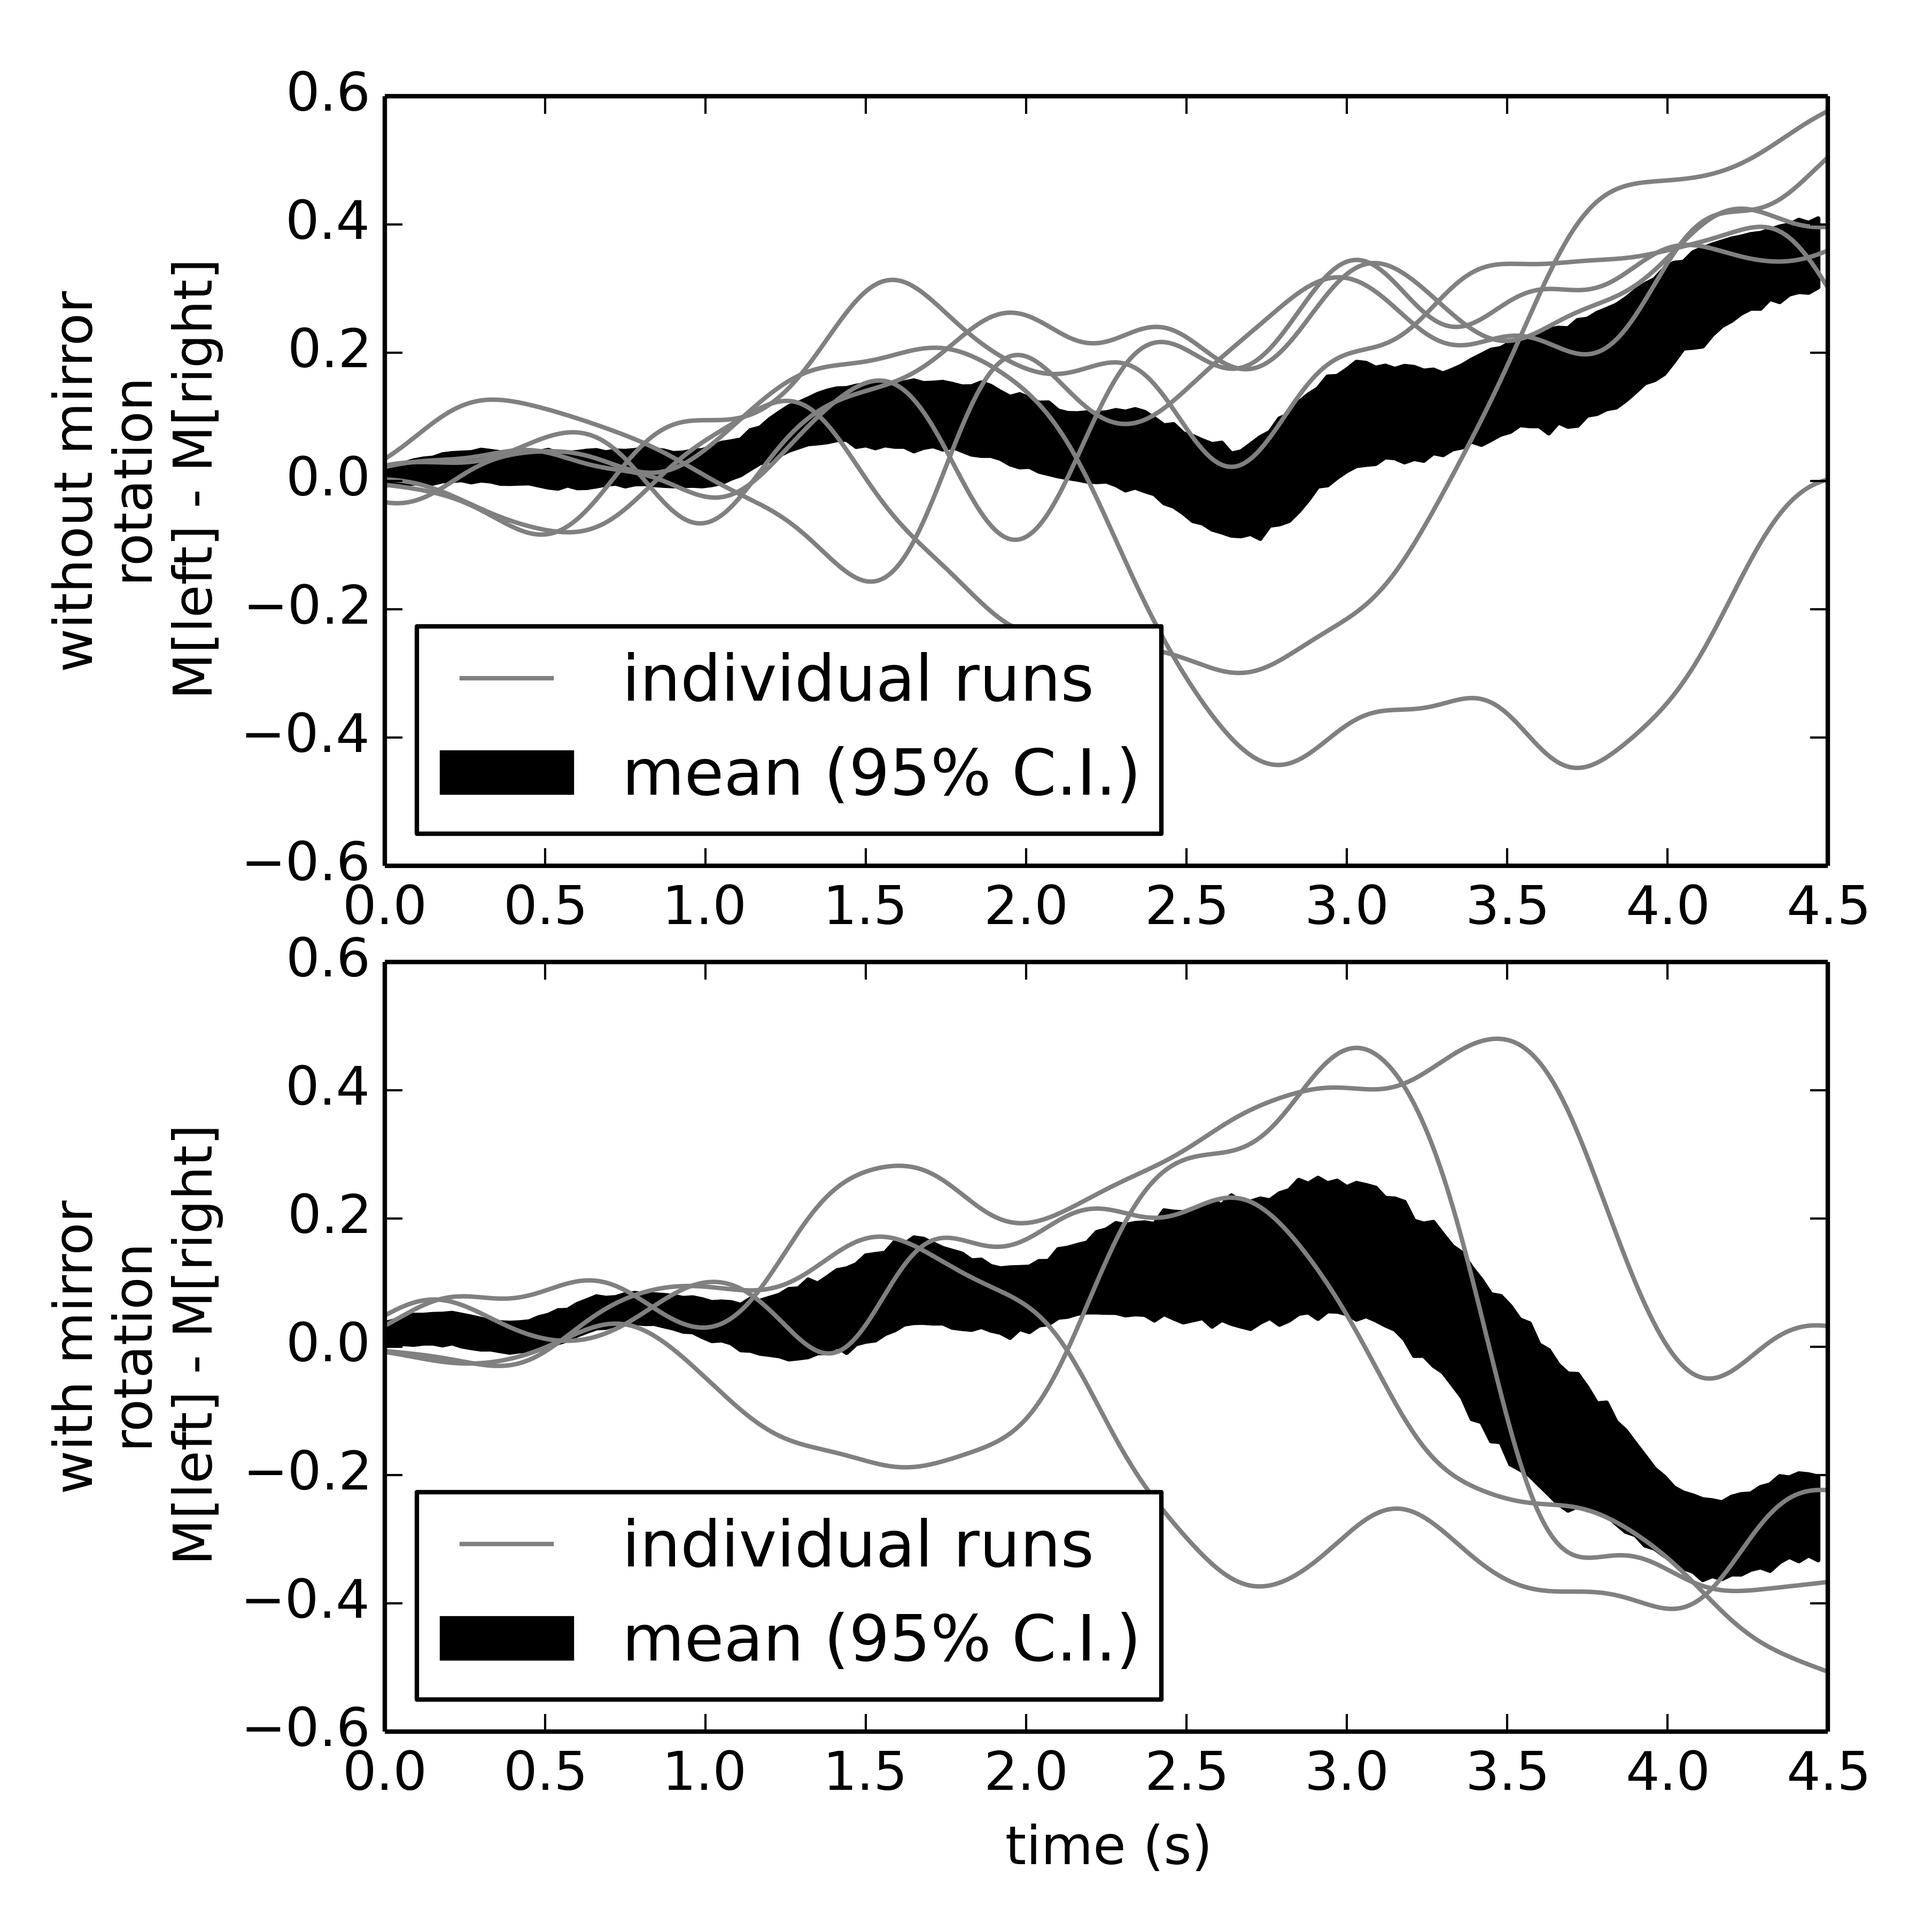
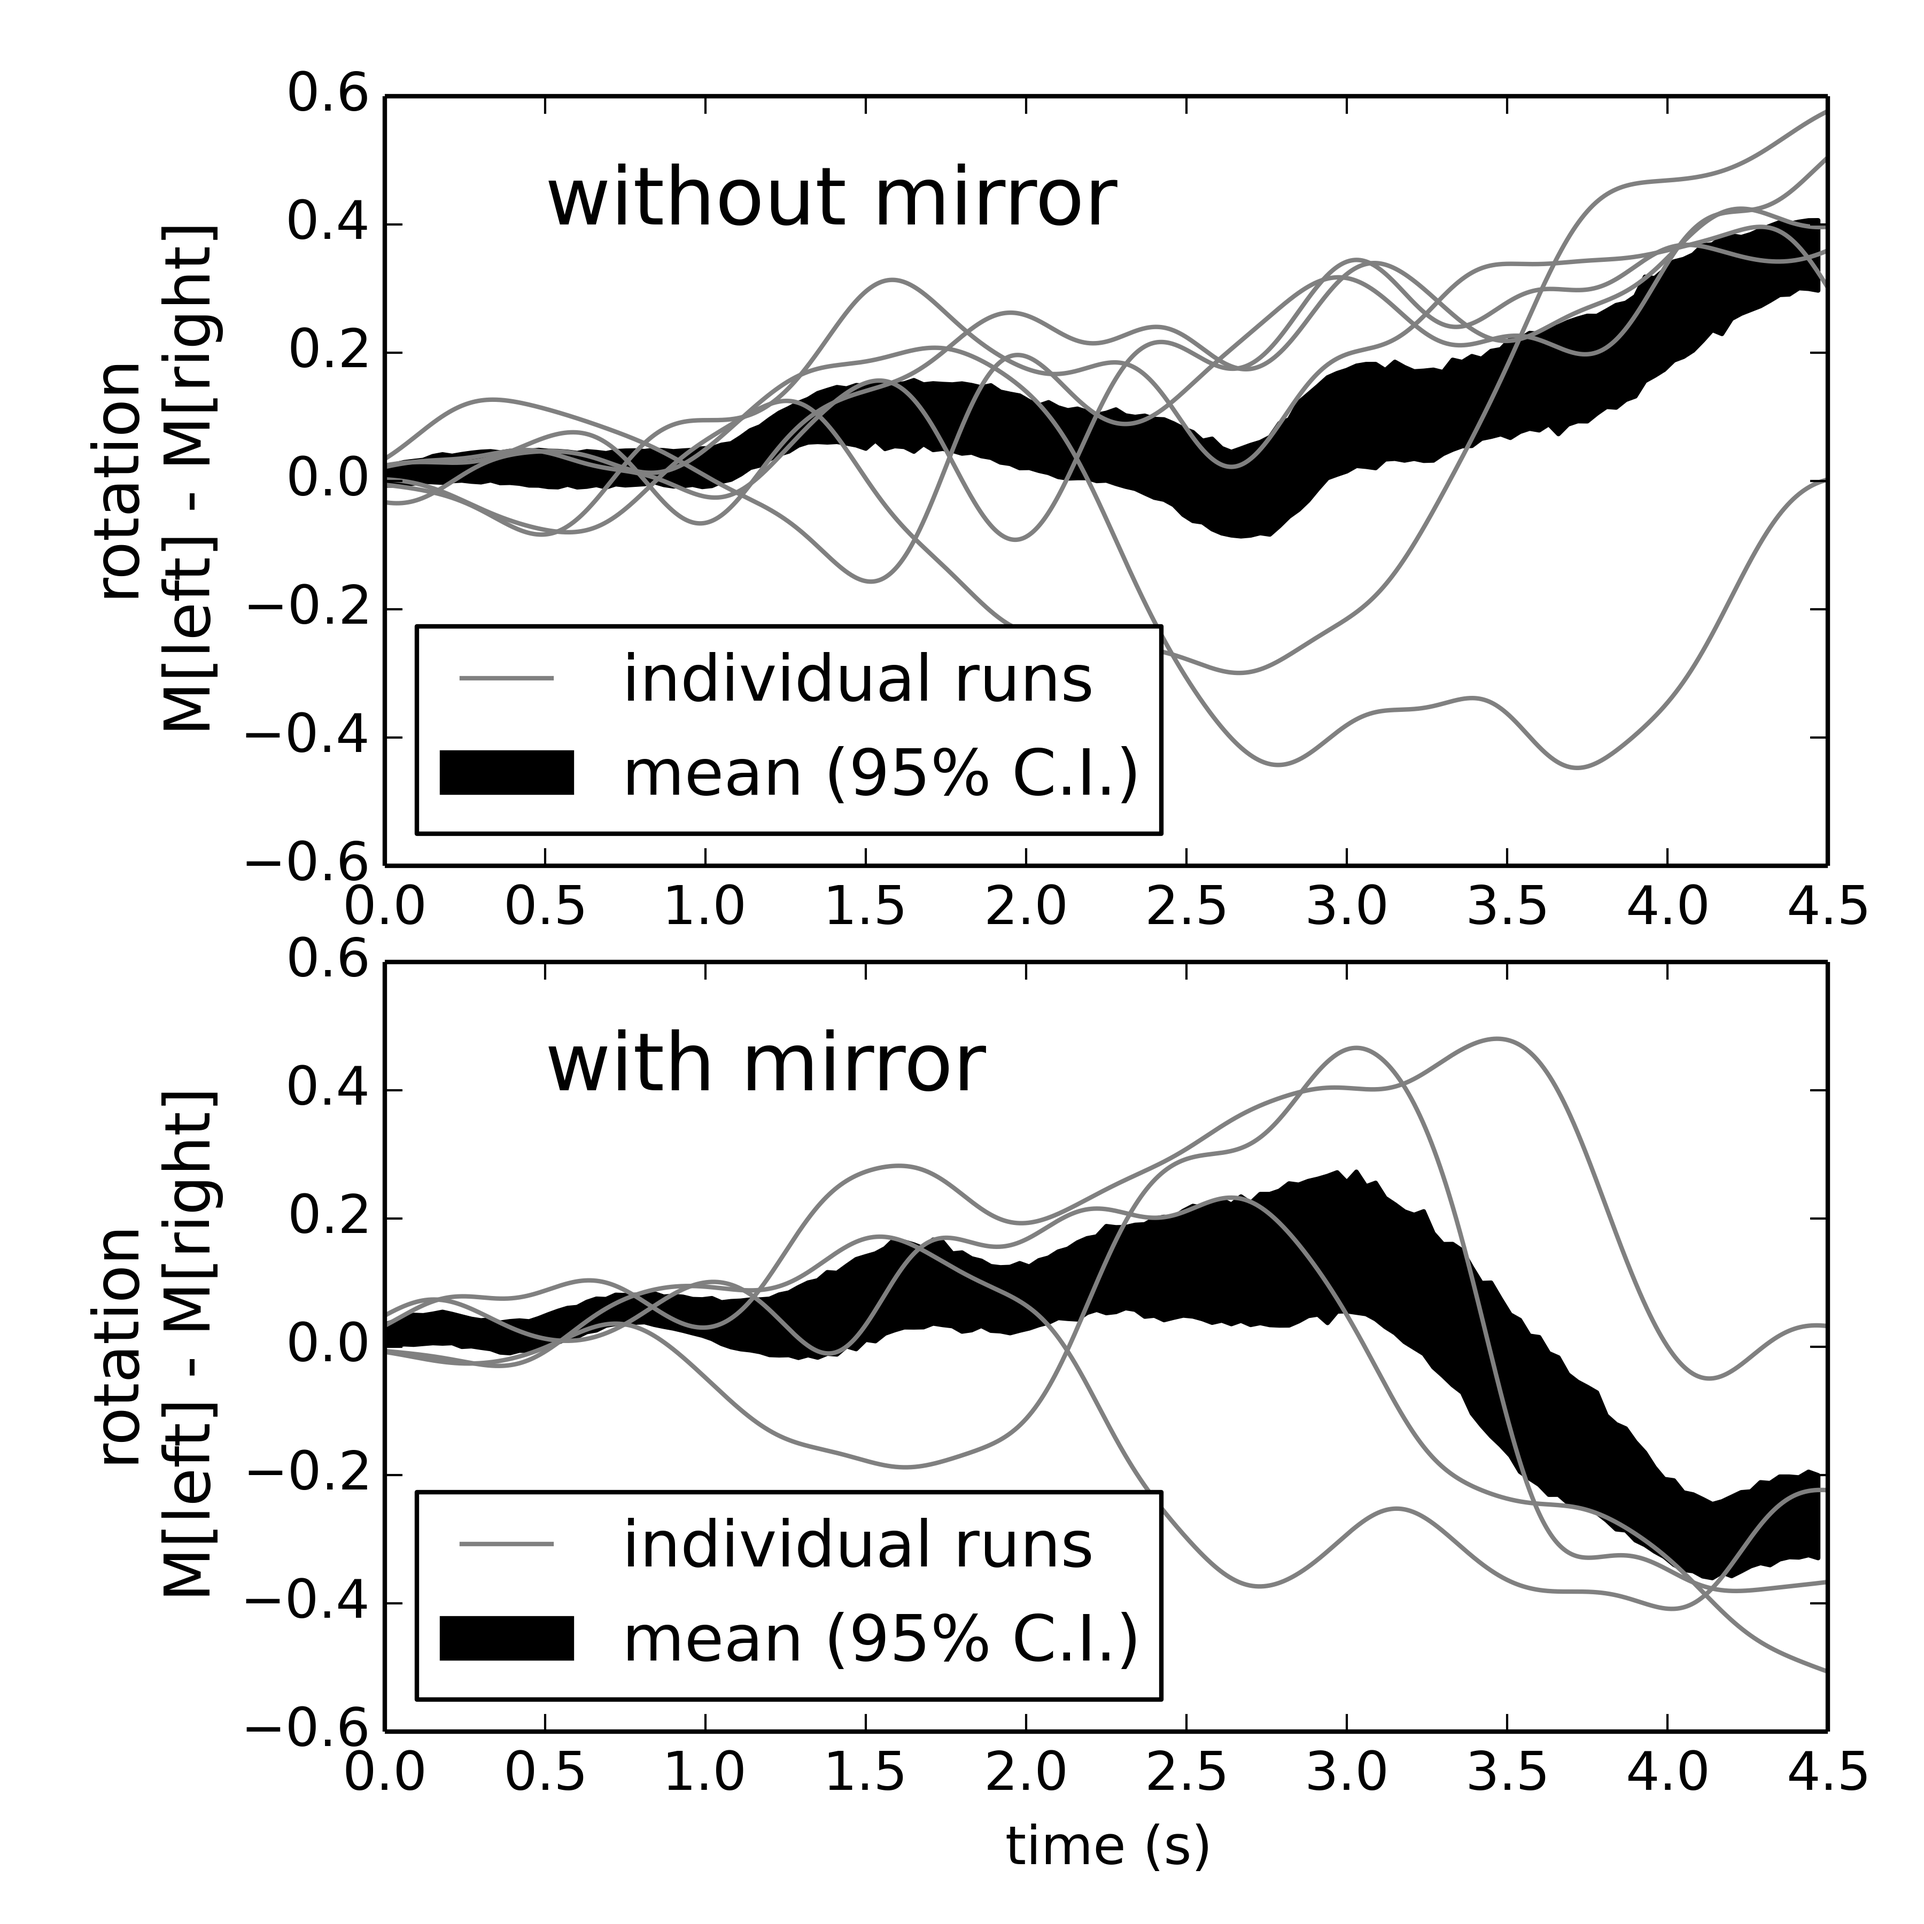
Updated learned mirror figure

diff --git a/document/figures/learn-mirror/learnmirror.py b/document/figures/learn-mirror/learnmirror.py
@@ -10,7 +10,8 @@ p.compute('turn', lambda data: data['motor'][:,:,1] - data['motor'][:,:,0])
 pylab.figure(figsize=(6,6))
 pylab.axes((0.2, 0.55, 0.75, 0.4))
 p.plot('turn')
-pylab.ylabel('without mirror\nrotation\nM[left] - M[right]')
+pylab.ylabel('rotation\nM[left] - M[right]', fontsize=14)
+pylab.text(0.5, 0.4, 'without mirror', fontsize=18)
 
 
 p = plotter.Plotter()
@@ -19,7 +20,8 @@ p.compute('turn', lambda data: data['motor'][:,:,1] - data['motor'][:,:,0])
 
 pylab.axes((0.2, 0.1, 0.75, 0.4))
 p.plot('turn')
-pylab.ylabel('with mirror\nrotation\nM[left] - M[right]')
+pylab.ylabel('rotation\nM[left] - M[right]', fontsize=14)
+pylab.text(0.5, 0.4, 'with mirror', fontsize=18)
 pylab.xlabel('time (s)')
 
 pylab.savefig('learnmirror.png', dpi=600)
